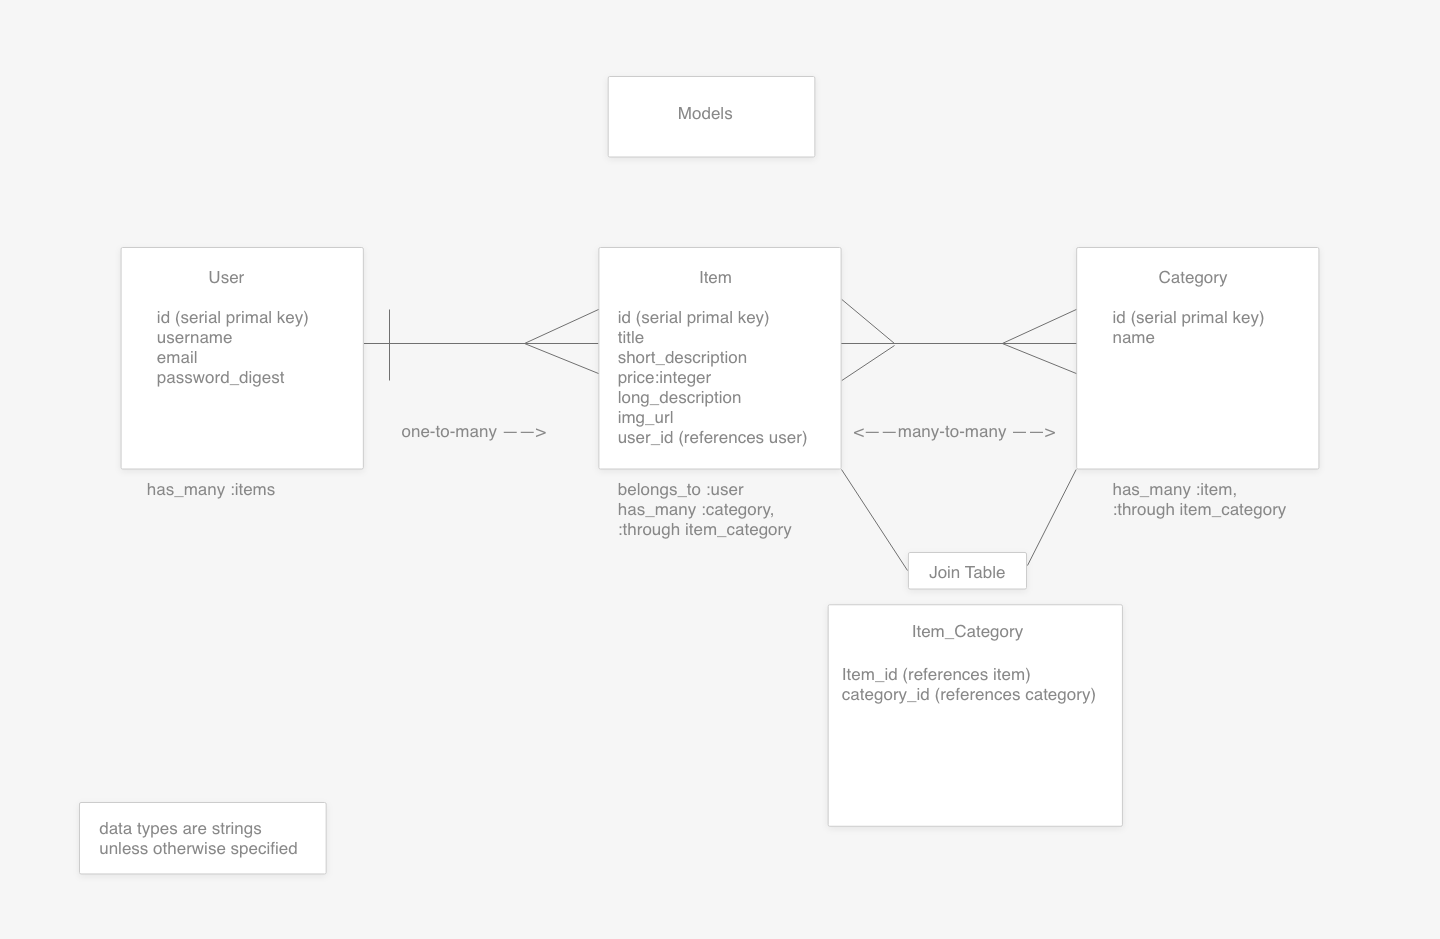
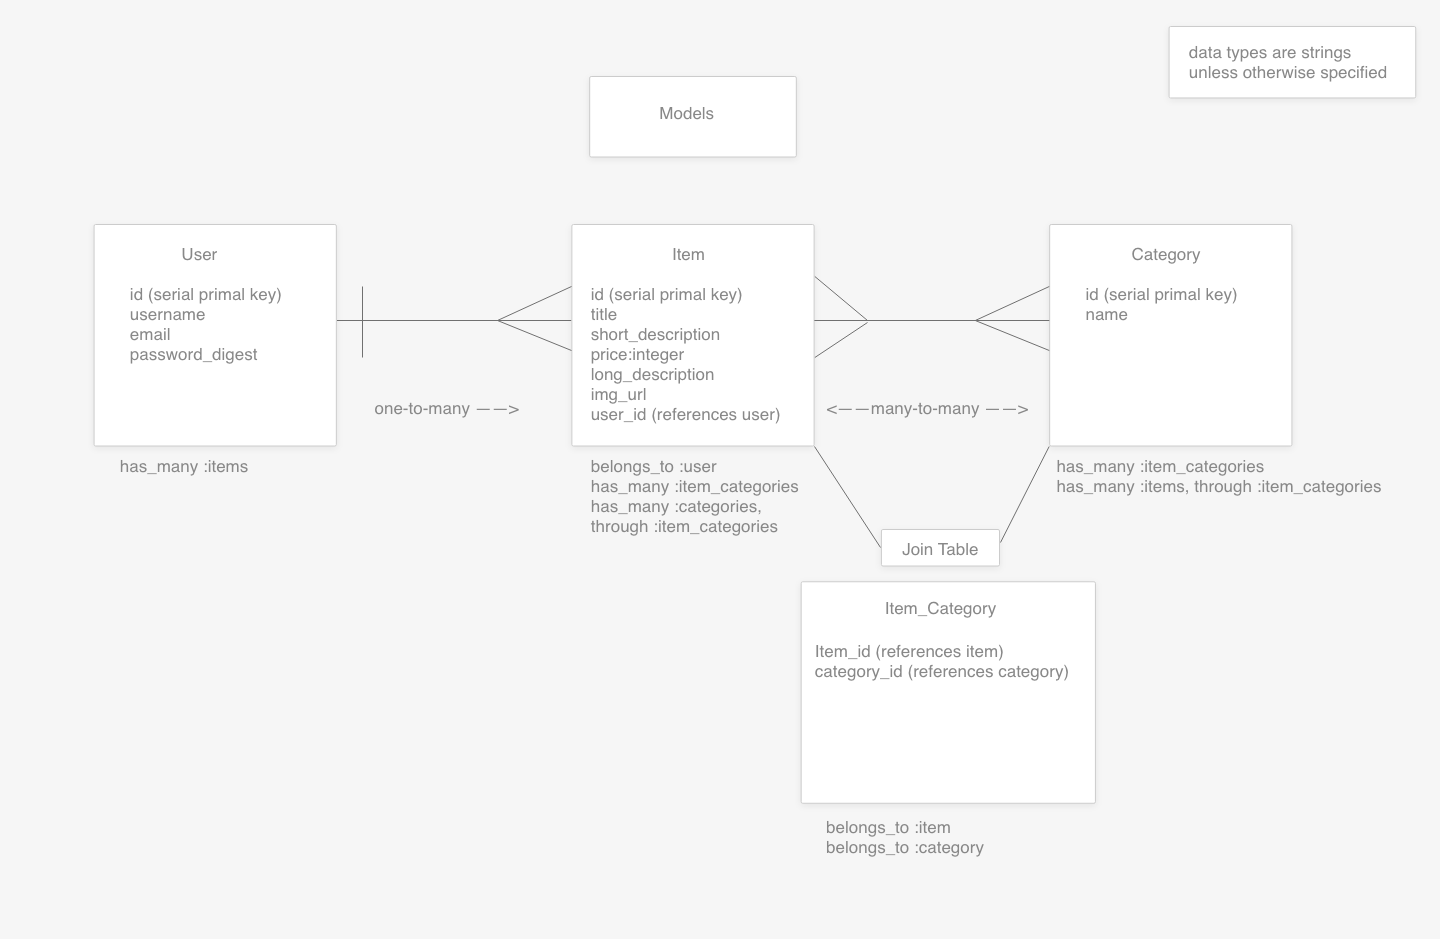
set up models, updated BE diagram

diff --git a/db/schema.rb b/db/schema.rb
@@ -1,0 +1,56 @@
+# This file is auto-generated from the current state of the database. Instead
+# of editing this file, please use the migrations feature of Active Record to
+# incrementally modify your database, and then regenerate this schema definition.
+#
+# This file is the source Rails uses to define your schema when running `bin/rails
+# db:schema:load`. When creating a new database, `bin/rails db:schema:load` tends to
+# be faster and is potentially less error prone than running all of your
+# migrations from scratch. Old migrations may fail to apply correctly if those
+# migrations use external dependencies or application code.
+#
+# It's strongly recommended that you check this file into your version control system.
+
+ActiveRecord::Schema.define(version: 2021_05_08_154752) do
+
+  # These are extensions that must be enabled in order to support this database
+  enable_extension "plpgsql"
+
+  create_table "categories", force: :cascade do |t|
+    t.string "name"
+    t.datetime "created_at", precision: 6, null: false
+    t.datetime "updated_at", precision: 6, null: false
+  end
+
+  create_table "item_categories", force: :cascade do |t|
+    t.bigint "item_id", null: false
+    t.bigint "category_id", null: false
+    t.datetime "created_at", precision: 6, null: false
+    t.datetime "updated_at", precision: 6, null: false
+    t.index ["category_id"], name: "index_item_categories_on_category_id"
+    t.index ["item_id"], name: "index_item_categories_on_item_id"
+  end
+
+  create_table "items", force: :cascade do |t|
+    t.string "title"
+    t.string "short_description"
+    t.integer "price"
+    t.string "long_description"
+    t.string "img_url"
+    t.bigint "user_id", null: false
+    t.datetime "created_at", precision: 6, null: false
+    t.datetime "updated_at", precision: 6, null: false
+    t.index ["user_id"], name: "index_items_on_user_id"
+  end
+
+  create_table "users", force: :cascade do |t|
+    t.string "username"
+    t.string "email"
+    t.string "password_digest"
+    t.datetime "created_at", precision: 6, null: false
+    t.datetime "updated_at", precision: 6, null: false
+  end
+
+  add_foreign_key "item_categories", "categories"
+  add_foreign_key "item_categories", "items"
+  add_foreign_key "items", "users"
+end

diff --git a/db/migrate/20210508153824_create_items.rb b/db/migrate/20210508153824_create_items.rb
@@ -1,0 +1,14 @@
+class CreateItems < ActiveRecord::Migration[6.1]
+  def change
+    create_table :items do |t|
+      t.string :title
+      t.string :short_description
+      t.integer :price
+      t.string :long_description
+      t.string :img_url
+      t.references :user, null: false, foreign_key: true
+
+      t.timestamps
+    end
+  end
+end

diff --git a/db/migrate/20210508154752_create_item_categories.rb b/db/migrate/20210508154752_create_item_categories.rb
@@ -1,0 +1,10 @@
+class CreateItemCategories < ActiveRecord::Migration[6.1]
+  def change
+    create_table :item_categories do |t|
+      t.references :item, null: false, foreign_key: true
+      t.references :category, null: false, foreign_key: true
+
+      t.timestamps
+    end
+  end
+end

diff --git a/db/migrate/20210508153702_create_users.rb b/db/migrate/20210508153702_create_users.rb
@@ -1,0 +1,11 @@
+class CreateUsers < ActiveRecord::Migration[6.1]
+  def change
+    create_table :users do |t|
+      t.string :username
+      t.string :email
+      t.string :password_digest
+
+      t.timestamps
+    end
+  end
+end

diff --git a/db/migrate/20210508154226_create_categories.rb b/db/migrate/20210508154226_create_categories.rb
@@ -1,0 +1,9 @@
+class CreateCategories < ActiveRecord::Migration[6.1]
+  def change
+    create_table :categories do |t|
+      t.string :name
+
+      t.timestamps
+    end
+  end
+end

diff --git a/db/seeds.rb b/db/seeds.rb
@@ -5,3 +5,4 @@
 #
 #   movies = Movie.create([{ name: 'Star Wars' }, { name: 'Lord of the Rings' }])
 #   Character.create(name: 'Luke', movie: movies.first)
+

diff --git a/app/models/item.rb b/app/models/item.rb
@@ -1,0 +1,5 @@
+class Item < ApplicationRecord
+  belongs_to :user
+  has_many :item_categories
+  has_many :categories, through :item_categories
+end

diff --git a/test/models/item_category_test.rb b/test/models/item_category_test.rb
@@ -1,0 +1,7 @@
+require "test_helper"
+
+class ItemCategoryTest < ActiveSupport::TestCase
+  # test "the truth" do
+  #   assert true
+  # end
+end

diff --git a/test/models/category_test.rb b/test/models/category_test.rb
@@ -1,0 +1,7 @@
+require "test_helper"
+
+class CategoryTest < ActiveSupport::TestCase
+  # test "the truth" do
+  #   assert true
+  # end
+end

diff --git a/test/models/item_test.rb b/test/models/item_test.rb
@@ -1,0 +1,7 @@
+require "test_helper"
+
+class ItemTest < ActiveSupport::TestCase
+  # test "the truth" do
+  #   assert true
+  # end
+end

diff --git a/test/models/user_test.rb b/test/models/user_test.rb
@@ -1,0 +1,7 @@
+require "test_helper"
+
+class UserTest < ActiveSupport::TestCase
+  # test "the truth" do
+  #   assert true
+  # end
+end

diff --git a/app/models/category.rb b/app/models/category.rb
@@ -1,0 +1,4 @@
+class Category < ApplicationRecord
+  has_many :item_categories
+  has_many :items, through :item_categories
+end
